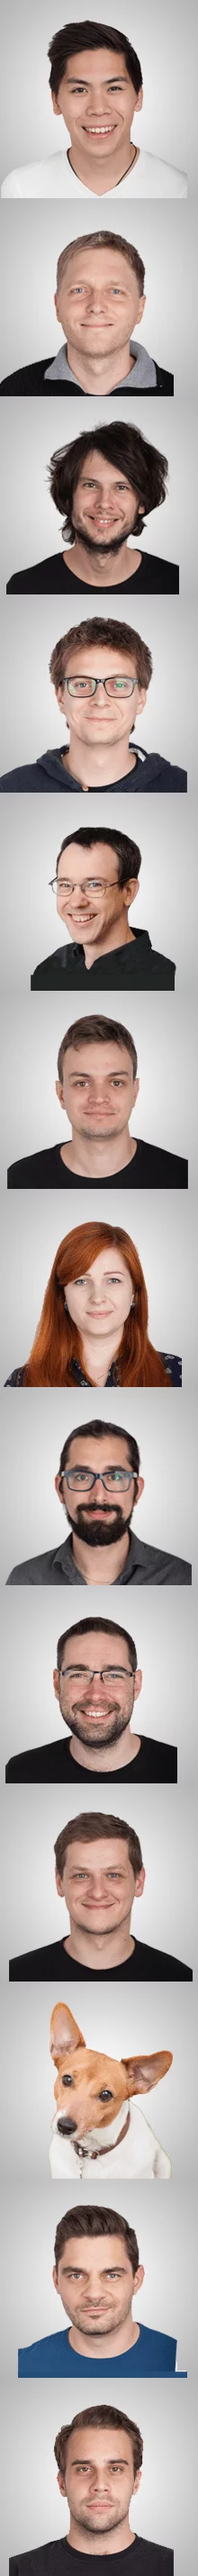
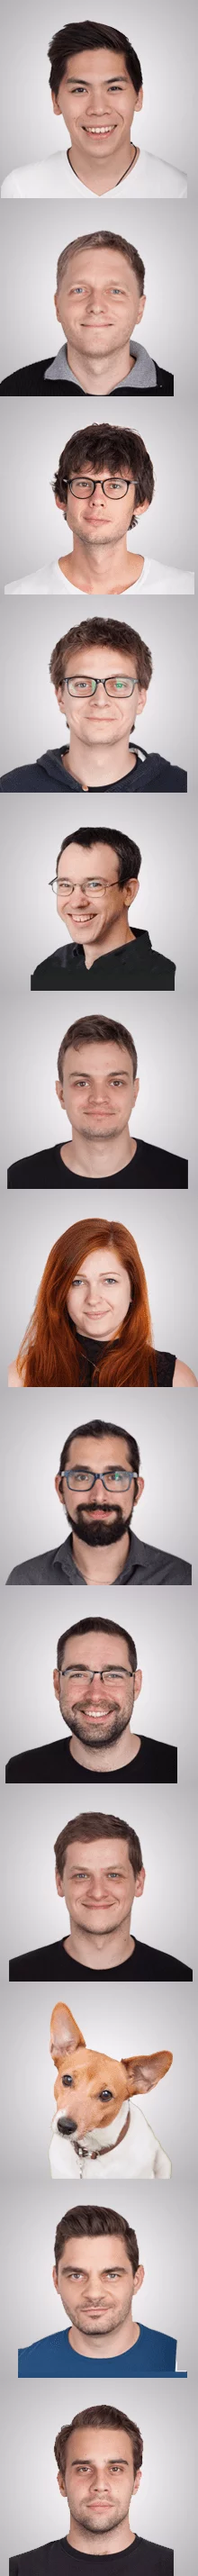
update team members section

Changed region(s): [[0.0273, 0.4668, 1.0, 0.5601], [0.0273, 0.1556, 0.9818, 0.249]]

diff --git a/pages/index.html b/pages/index.html
@@ -687,7 +687,7 @@
                         <div class="content">
                             <div class="description">
                                 <h4>Jan Pecinovsky</h4>
-                                <p class="title">{% trans "Operations" %}</p>
+                                <p class="title">{% trans "Sales" %}</p>
                             </div>
                         </div>
                     </div>
@@ -760,6 +760,96 @@
                             <div class="description">
                                 <h4>Bach Nguyen</h4>
                                 <p class="title">{% trans "Marketing" %}</p>
+                            </div>
+                        </div>
+                    </div>
+
+                    <div class="col-lg-3 col-md-4 col-sm-4 person shuffle text-xs-center">
+                        <div class="header2 boso webp"></div>
+                        <div class="content">
+                            <div class="description">
+                                <h4>Tomáš Bošanský</h4>
+                                <p class="title">{% trans "Support" %}</p>
+                            </div>
+                        </div>
+                    </div>
+
+                    <div class="col-lg-3 col-md-4 col-sm-4 person shuffle text-xs-center">
+                        <div class="header2 daria webp"></div>
+                        <div class="content">
+                            <div class="description">
+                                <h4>Daria Roik</h4>
+                                <p class="title">{% trans "Support" %}</p>
+                            </div>
+                        </div>
+                    </div>
+
+                    <div class="col-lg-3 col-md-4 col-sm-4 person shuffle text-xs-center">
+                        <div class="header2 dorian webp"></div>
+                        <div class="content">
+                            <div class="description">
+                                <h4>Dorian Podulka</h4>
+                                <p class="title">{% trans "Developer" %}</p>
+                            </div>
+                        </div>
+                    </div>
+
+                    <div class="col-lg-3 col-md-4 col-sm-4 person shuffle text-xs-center">
+                        <div class="header2 jakub webp"></div>
+                        <div class="content">
+                            <div class="description">
+                                <h4>Jakub Seidl</h4>
+                                <p class="title">{% trans "Office" %}</p>
+                            </div>
+                        </div>
+                    </div>
+
+                    <div class="col-lg-3 col-md-4 col-sm-4 person shuffle text-xs-center">
+                        <div class="header2 jan webp"></div>
+                        <div class="content">
+                            <div class="description">
+                                <h4>Jan Kovařík</h4>
+                                <p class="title">{% trans "Support" %}</p>
+                            </div>
+                        </div>
+                    </div>
+
+                    <div class="col-lg-3 col-md-4 col-sm-4 person shuffle text-xs-center">
+                        <div class="header2 mara webp"></div>
+                        <div class="content">
+                            <div class="description">
+                                <h4>Marek Blahuta</h4>
+                                <p class="title">{% trans "Support" %}</p>
+                            </div>
+                        </div>
+                    </div>
+
+                    <div class="col-lg-3 col-md-4 col-sm-4 person shuffle text-xs-center">
+                        <div class="header2 misa webp"></div>
+                        <div class="content">
+                            <div class="description">
+                                <h4>Michaela Heřtusová</h4>
+                                <p class="title">{% trans "Sales" %}</p>
+                            </div>
+                        </div>
+                    </div>
+
+                    <div class="col-lg-3 col-md-4 col-sm-4 person shuffle text-xs-center">
+                        <div class="header2 sipak webp"></div>
+                        <div class="content">
+                            <div class="description">
+                                <h4>Martin Šíp</h4>
+                                <p class="title">{% trans "Operations" %}</p>
+                            </div>
+                        </div>
+                    </div>
+
+                    <div class="col-lg-3 col-md-4 col-sm-4 person shuffle text-xs-center">
+                        <div class="header2 szymon webp"></div>
+                        <div class="content">
+                            <div class="description">
+                                <h4>Szymon Lesisz</h4>
+                                <p class="title">{% trans "Developer" %}</p>
                             </div>
                         </div>
                     </div>

diff --git a/static/css/custom/page_homepage.sass b/static/css/custom/page_homepage.sass
@@ -492,7 +492,7 @@ img.business-logo
   background-color: $c_grey_bg
 
   .person
-    .header
+    .header, .header2
       width: 100%
       max-width: 179px
       max-height: 179px
@@ -516,6 +516,8 @@ img.business-logo
         content: ""
         display: block
         padding-bottom: 100%
+
+    .header
 
       &.bach
         background-position: 0 0%
@@ -542,6 +544,35 @@ img.business-logo
       &.peter
         background-position: 0 91.666667%
       &.vojtech
+        background-position: 0 100%
+
+    .header2
+      background: url("/static/images/team_faces/faces2.webp")
+      background-repeat: no-repeat
+      background-size: 100%
+
+      &.no-webp
+        background: url("/static/images/team_faces/faces2.png")
+        background-repeat: no-repeat
+        background-size: 100%
+
+      &.boso
+        background-position: 0 0%
+      &.daria
+        background-position: 0 12.5%
+      &.dorian
+        background-position: 0 25%
+      &.jakub
+        background-position: 0 37.5%
+      &.jan
+        background-position: 0 50%
+      &.mara
+        background-position: 0 62.5%
+      &.misa
+        background-position: 0 75%
+      &.sipak
+        background-position: 0 87.5%
+      &.szymon
         background-position: 0 100%
 
     h4
